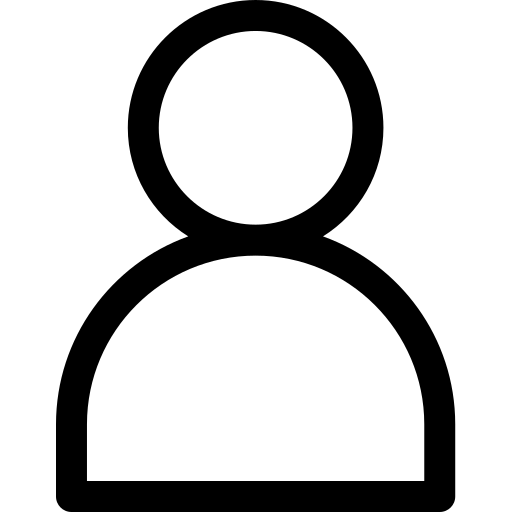
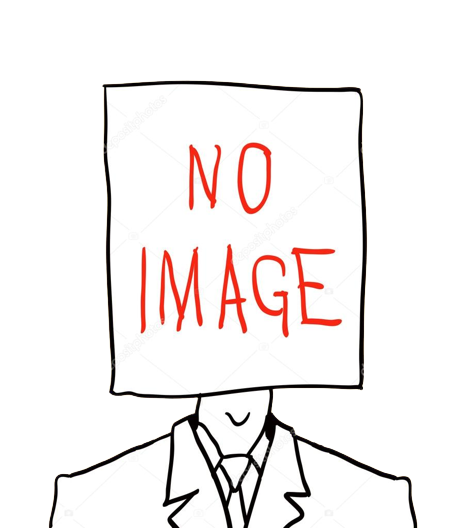
add no search query found image,User image exception

Changed region(s): [[0.089, 0.0, 0.8898, 1.0]]

diff --git a/lib/screens/fragment/listing_fragment.dart b/lib/screens/fragment/listing_fragment.dart
@@ -1,4 +1,5 @@
 import 'package:flutter/material.dart';
+import 'package:hacktoberfest/constants/assets.dart';
 import 'package:provider/provider.dart';
 
 import 'package:hacktoberfest/controller/dark_theme_provider.dart';
@@ -18,21 +19,27 @@ class ListingFragment extends StatelessWidget {
   Widget build(BuildContext context) {
     bool isLandscape =
         MediaQuery.of(context).orientation == Orientation.landscape;
-    final bool isDark = Provider.of<DarkThemeProvider>(context).dTheme;
-    return SingleChildScrollView(
-      physics: BouncingScrollPhysics(),
-      child: Padding(
-        padding: const EdgeInsets.all(16),
-        child: GridWidget(
-          itemCount: data.length,
-          builder: (BuildContext context, w, int i) {
-            final Users user = data[i];
-            return _Item(user: user, w: w);
-          },
-          crossCount: isLandscape ? 4 : 2,
-        ),
-      ),
-    );
+    return data.isNotEmpty
+        ? SingleChildScrollView(
+            physics: BouncingScrollPhysics(),
+            child: Padding(
+              padding: const EdgeInsets.all(16),
+              child: GridWidget(
+                itemCount: data.length,
+                builder: (BuildContext context, w, int i) {
+                  final Users user = data[i];
+                  return _Item(user: user, w: w);
+                },
+                crossCount: isLandscape ? 4 : 2,
+              ),
+            ),
+          )
+        : Center(
+            child: Image.asset(
+              Assets.noSearchFound,
+              height: 200,
+            ),
+          );
   }
 }
 
@@ -69,12 +76,20 @@ class _Item extends StatelessWidget {
               decoration: BoxDecoration(
                 color: isDark ? Colors.white : Colors.black,
                 borderRadius: BorderRadius.circular(16),
-                image: DecorationImage(
+                /* image: DecorationImage(
                   image: NetworkImage(
                     'https://github.com/${user.name}.png',
                   ),
+                  onError: (exception, stackTrace) =>
+                      Image.asset(Assets.noSearchFound),
                   fit: BoxFit.cover,
-                ),
+                ),*/
+              ),
+              child: Image.network(
+                'https://github.com/${user.name}.png',
+                fit: BoxFit.cover,
+                errorBuilder: ((context, error, stackTrace) =>
+                    Image.asset(Assets.user)),
               ),
             ),
             SizedBox(height: 10),

diff --git a/lib/widgets/search_bar.dart b/lib/widgets/search_bar.dart
@@ -7,12 +7,14 @@ class SearchBar extends StatelessWidget {
   final TextEditingController controller;
   final void Function() onSearch;
   final void Function(String) onChanged;
-  const SearchBar({
-    Key? key,
-    required this.controller,
-    required this.onSearch,
-    required this.onChanged,
-  }) : super(key: key);
+  final GestureTapCallback clearButtonCallBack;
+  const SearchBar(
+      {Key? key,
+      required this.controller,
+      required this.onSearch,
+      required this.onChanged,
+      required this.clearButtonCallBack})
+      : super(key: key);
   @override
   Widget build(BuildContext context) {
     return Padding(
@@ -28,6 +30,12 @@ class SearchBar extends StatelessWidget {
               child: TextFormField(
                 controller: controller,
                 decoration: InputDecoration(
+                  suffixIcon: controller.text.isNotEmpty
+                      ? GestureDetector(
+                          onTap: clearButtonCallBack,
+                          child: Icon(Icons.clear),
+                        )
+                      : SizedBox.shrink(),
                   border: OutlineInputBorder(
                     borderSide: BorderSide.none,
                     borderRadius: BorderRadius.circular(8),

diff --git a/lib/screens/home_view.dart b/lib/screens/home_view.dart
@@ -69,6 +69,10 @@ class _HomeViewState extends State<HomeView> {
                   title: SearchBar(
                     controller: controller,
                     onChanged: search,
+                    clearButtonCallBack: (() => setState(() {
+                          controller.clear();
+                          users = fetched.toList();
+                        })),
                     onSearch: () {
                       search(controller.value.text);
                     },
@@ -97,9 +101,8 @@ class _HomeViewState extends State<HomeView> {
   }
 
   void search(String value) {
-    setState(() {
-      users =
-          fetched.where((e) => e.name.toLowerCase().contains(value)).toList();
-    });
+    users = fetched.where((e) => e.name.toLowerCase().contains(value)).toList();
+
+    setState(() {});
   }
 }

diff --git a/lib/themes/dark_theme.dart b/lib/themes/dark_theme.dart
@@ -18,7 +18,8 @@ class DarkTheme {
       focusColor: isDarkTheme ? Color(0xff0B2512) : Color(0xffA8DAB5),
       disabledColor: Colors.grey,
       textSelectionTheme: TextSelectionThemeData(
-        selectionColor: isDarkTheme ? Colors.white : Colors.black,
+        selectionColor: !isDarkTheme ? Colors.blueAccent : Colors.yellow,
+        //selectionColor: isDarkTheme ? Colors.white : Colors.black,
       ),
       cardColor: isDarkTheme ? Color(0xFF151515) : Colors.white,
       canvasColor: isDarkTheme ? Colors.black : Colors.grey[50],

diff --git a/lib/generated_plugin_registrant.dart b/lib/generated_plugin_registrant.dart
@@ -4,6 +4,7 @@
 
 // ignore_for_file: directives_ordering
 // ignore_for_file: lines_longer_than_80_chars
+// ignore_for_file: depend_on_referenced_packages
 
 import 'package:shared_preferences_web/shared_preferences_web.dart';
 import 'package:url_launcher_web/url_launcher_web.dart';

diff --git a/lib/constants/assets.dart b/lib/constants/assets.dart
@@ -4,4 +4,5 @@ class Assets {
   static const img = 'assets/img.png';
   static const img1 = 'assets/img1.png';
   static const user = 'assets/user.png';
+  static const noSearchFound = 'assets/no_search_found.png';
 }

diff --git a/lib/screens/homepage.screens.dart b/lib/screens/homepage.screens.dart
@@ -53,6 +53,7 @@ class _HomePageState extends State<HomePage> {
     }
   }
 
+  // ignore: unused_field
   Future<void>? _launched;
 
   Future<void> _launchInBrowser(Uri url) async {
